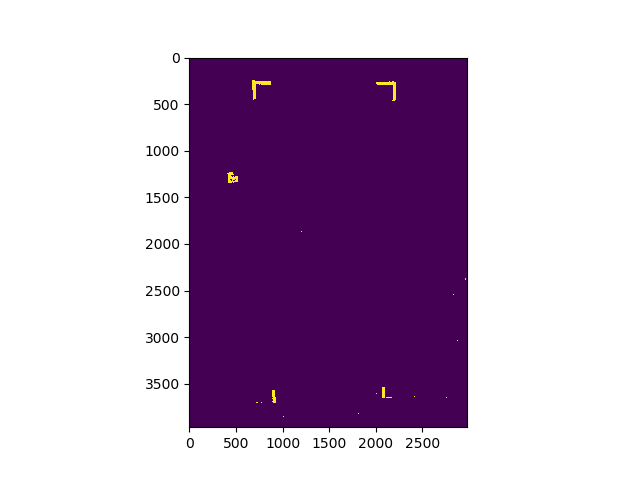
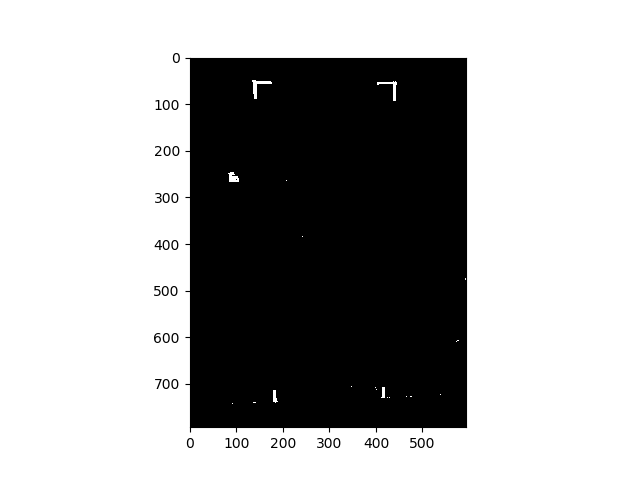
small update

diff --git a/project_improvements/doors_detection/main.py b/project_improvements/doors_detection/main.py
@@ -4,36 +4,67 @@ import numpy as np
 import cv2
 from matplotlib import pyplot as plt
 import matplotlib.image as mpimg
+import os
+from sklearn import linear_model, datasets
 
+
+cur_cwd = os.getcwd()
+os.chdir(os.path.abspath(os.path.join(cur_cwd, 'project_improvements', 'doors_detection')))
 
 
 # img = cv2.imread('door_raw.jpg')
 
 img2 = mpimg.imread('door_raw.jpg')
+img2 = cv2.resize(img2, None, fx=0.2, fy=0.2)
 
 img2_hsv = cv2.cvtColor(img2, cv2.COLOR_RGB2HSV)
 
 plt.imshow(img2)
 
-
-# the yellow is approximately [193 165 65]
+# get the yellow pixel in hsv
+# the yellow is approximately [193 165 65]  in RGB
 yellow_pixel = np.zeros((1, 1, 3))
 yellow_pixel[0][0] = np.array([193, 165, 65])
-
 yellow_pixel = yellow_pixel.astype(np.uint8)
+
 yellow_pixel_hsv = cv2.cvtColor(yellow_pixel, cv2.COLOR_RGB2HSV)
+# the yellow is approximately [23 169 169]  in HSV
 
-# we receive:
-# Hue 23
-# Saturation 169
-# Value 169
-
-# We are interested in the Hue value. Define a margin of +- 10 and filter the original image
-
+# We are interested mainly in the Hue value, which is quiet saturated. Define a margin of +- 10 and filter the original image
 lower_yellow = np.array([20, 120, 50])
 upper_yellow = np.array([30, 255, 255])
 
 mask_img = cv2.inRange(img2_hsv, lower_yellow, upper_yellow)
 
-plt.imshow(mask_img)
+plt.imshow(mask_img, 'gray')
 plt.savefig('Filteted_result.png')
+
+
+# Using the RANSAC algorithm to find the lines which resemble the lines of the doors
+# Regular algorithms find only one model using the RANSAC algorithm.
+# We here have to find numerous lines, which will sum to 3 after the non-max suppression.
+
+# extract the array of X and Y location of all 'white' pixels in the mask image
+x_coords = []
+y_coords = []
+
+for row_num in range(mask_img.shape[0]):
+    for col_num in range(mask_img.shape[1]):
+        if mask_img[row_num][col_num] == 255:
+            x_coords.append(col_num)
+            y_coords.append(row_num)
+
+x_coords = np.reshape(x_coords, (-1, 1))
+y_coords = np.reshape(y_coords, (-1, 1))
+
+ransac_line = linear_model.RANSACRegressor(residual_threshold=10)
+ransac_line.fit(x_coords, y_coords)
+
+# draw the line on the image
+line_X = np.arange(x_coords.min(), x_coords.max())[:, np.newaxis]
+line_y_ransac = ransac_line.predict(line_X)
+
+
+plt.plot(line_X, line_y_ransac , color='cornflowerblue', linewidth=2,
+         label='RANSAC regressor')
+plt.savefig('RANSAC_example.png')

diff --git a/project_improvements/improvements.md b/project_improvements/improvements.md
@@ -45,3 +45,13 @@ The following is the example of using the filter on the specific HSV parameters.
 
 <img src="./imgs/filteted_result.png" width="400"/>
 
+Later, we can use the RANSAC method in order to extract the line segments in the image, and use the Maximum suppression in order to leave only the most-outer lines. 
+We have to receive at most 3 lines! The line on the bottom will be closing the parallelogram. 
+
+We can later use the Harris Corner Detector to verify that the 4 edge-points of the door are indeed 'corners' (they should be detected by the Harris Corner Detector!). If they are, we can describe those corners as 'Features' (SIFT) and track those between the images. 
+
+
+Below is the example the image with the RANSAC algorithm detecting a single line. (Using the _sklearn_ library)
+
+ <img src="./imgs/RANSAC_example.png" width="400"/>
+
